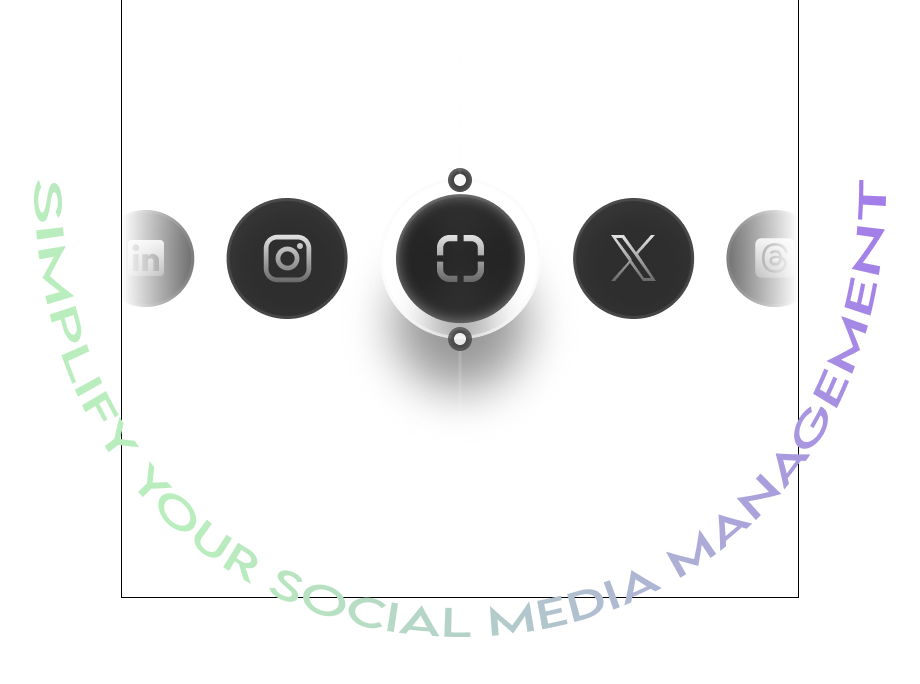
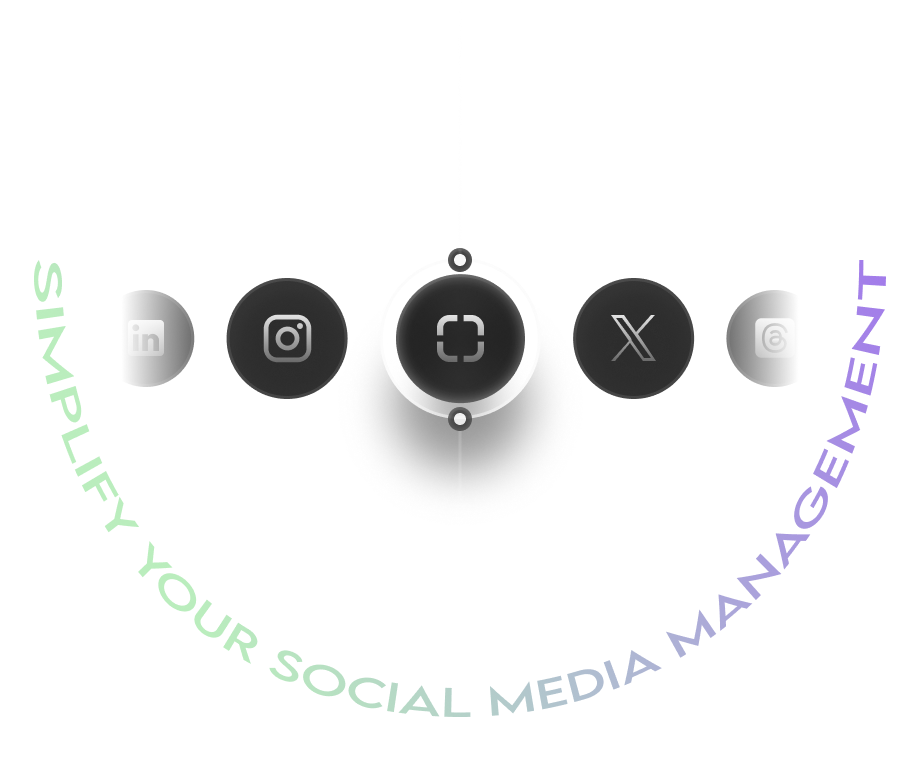
Add files via upload

diff --git a/index.html b/index.html
@@ -21,7 +21,7 @@
                 <li class="menu_item"><a href="#" class="menu_link">Integration</a></li>
                 <li class="menu_item"><a href="#" class="menu_link">Pricing</a></li>
                 <li class="menu_item"><a href="#" class="menu_link">Demo</a></li>
-                <li class="menu_item"><a href="#" class="menu_link">Resources<img src="images/chek_icon.svg" alt="Icon" class="chek_icon" width="8" height="8"></a></li>
+                <li class="menu_item"><a href="#" class="menu_link">Resources<img src="images/chek_icon.svg" alt="Icon" class="dropdown" width="8" height="8"></a></li>
             </ul>
         </nav>
         <button type="button" class="button">Start your free trial</button>
@@ -299,8 +299,8 @@
                     <p class="list_name"><a href="#" class="list_name">Resources</a></p>
                 </div>
                 <div class="list2">
-                    <p class="list_name"><a href="#">Privasy policy</a></p>
-                    <p class="list_name"><a href="#">Terms od service</a></p>
+                    <p class="list_name"><a href="#" class="list_name">Privasy policy</a></p>
+                    <p class="list_name"><a href="#" class="list_name">Terms od service</a></p>
                 </div>
             </div>
         </div>

diff --git a/styles/style.css b/styles/style.css
@@ -66,8 +66,7 @@ body{
     padding: 80px 0;
 }
 .illustration{
-    width: 852px;
-    height: 604px;
+    width: 100%;
     display: flex;
     justify-content: center;
     align-items: center;
@@ -351,6 +350,7 @@ body{
     background-color: #BAEDBD;
     position: absolute;
     z-index: 2;
+    bottom: 120px;
 }
 .human2{
     width: 107px;
@@ -359,6 +359,7 @@ body{
     background-color: #95A4FC;
     position: absolute;
     z-index: 2;
+    bottom: 120px;
 }
 .human3{
     width: 107px;
@@ -367,6 +368,7 @@ body{
     background-color: #C6C7F8;
     position: absolute;
     z-index: 2;
+    bottom: 120px;
 }
 .back{
     width: 336;
@@ -383,7 +385,6 @@ body{
     font-family: 'Rubik', sans-serif;
     font-size: 20px;
     font-weight: 500;
-    margin-top: 16px;
     text-align: left;
 }
 .subname{
@@ -398,7 +399,6 @@ body{
     font-size: 16px;
     font-weight: 400;
     line-height: 24px;
-    margin-top: 12px;
     text-align: left;
     color: #bbbbbb;
 }
